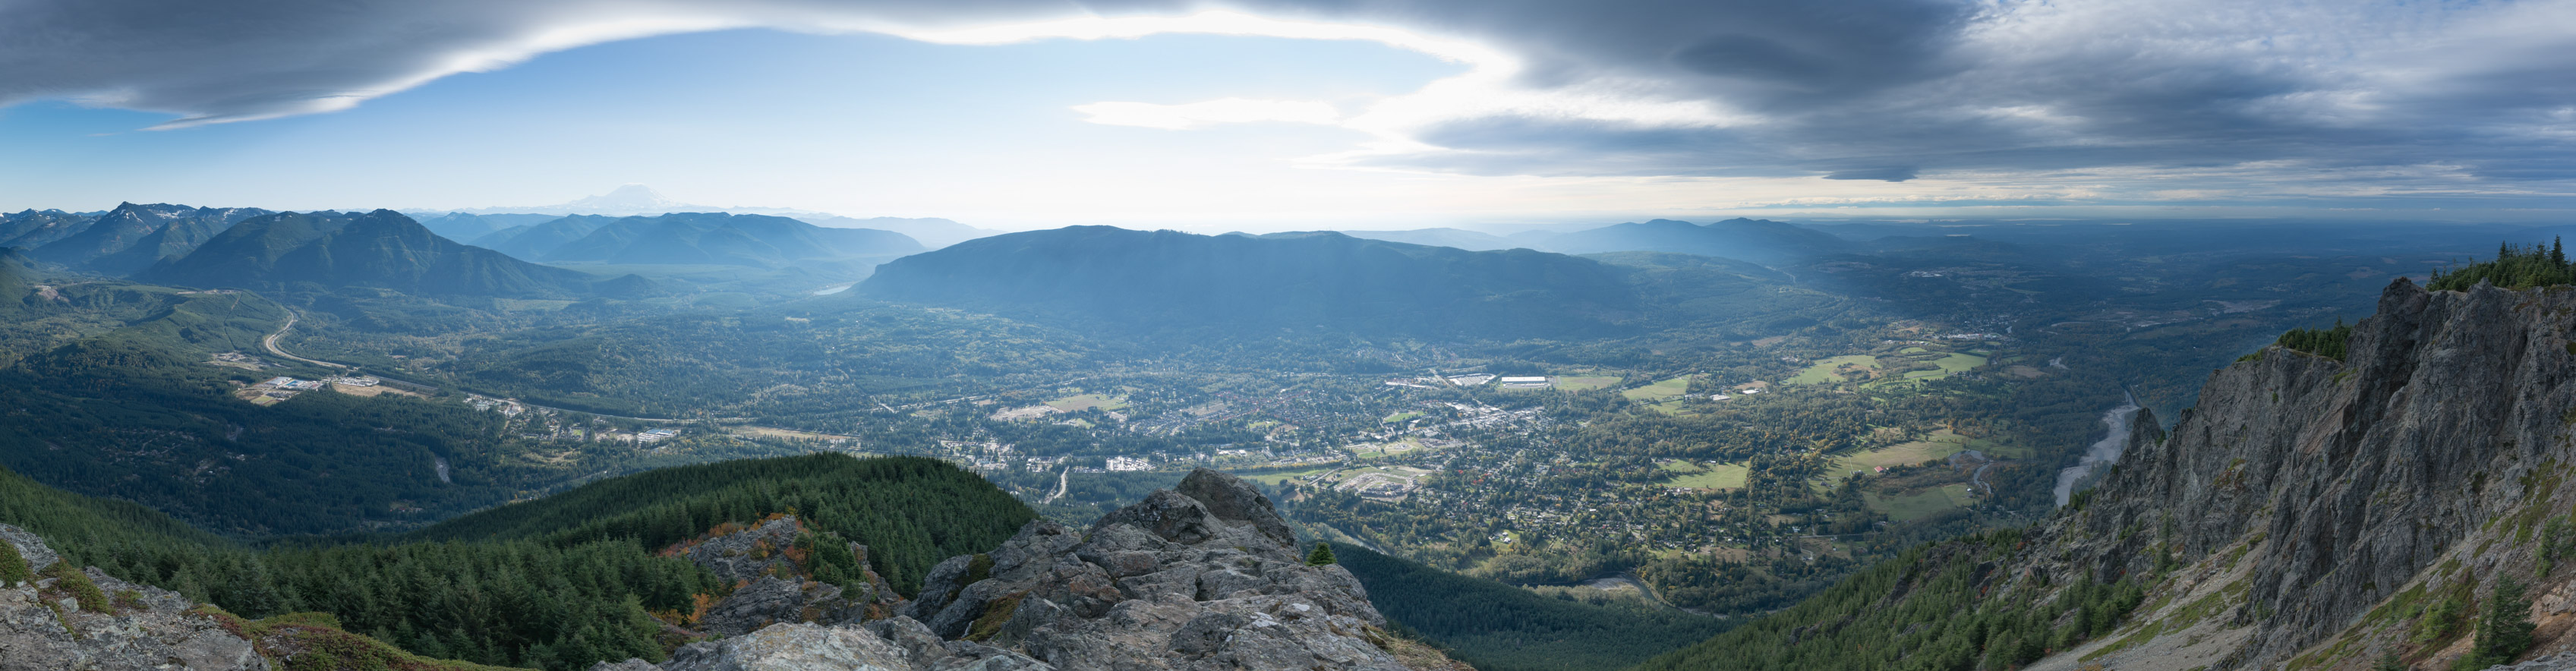
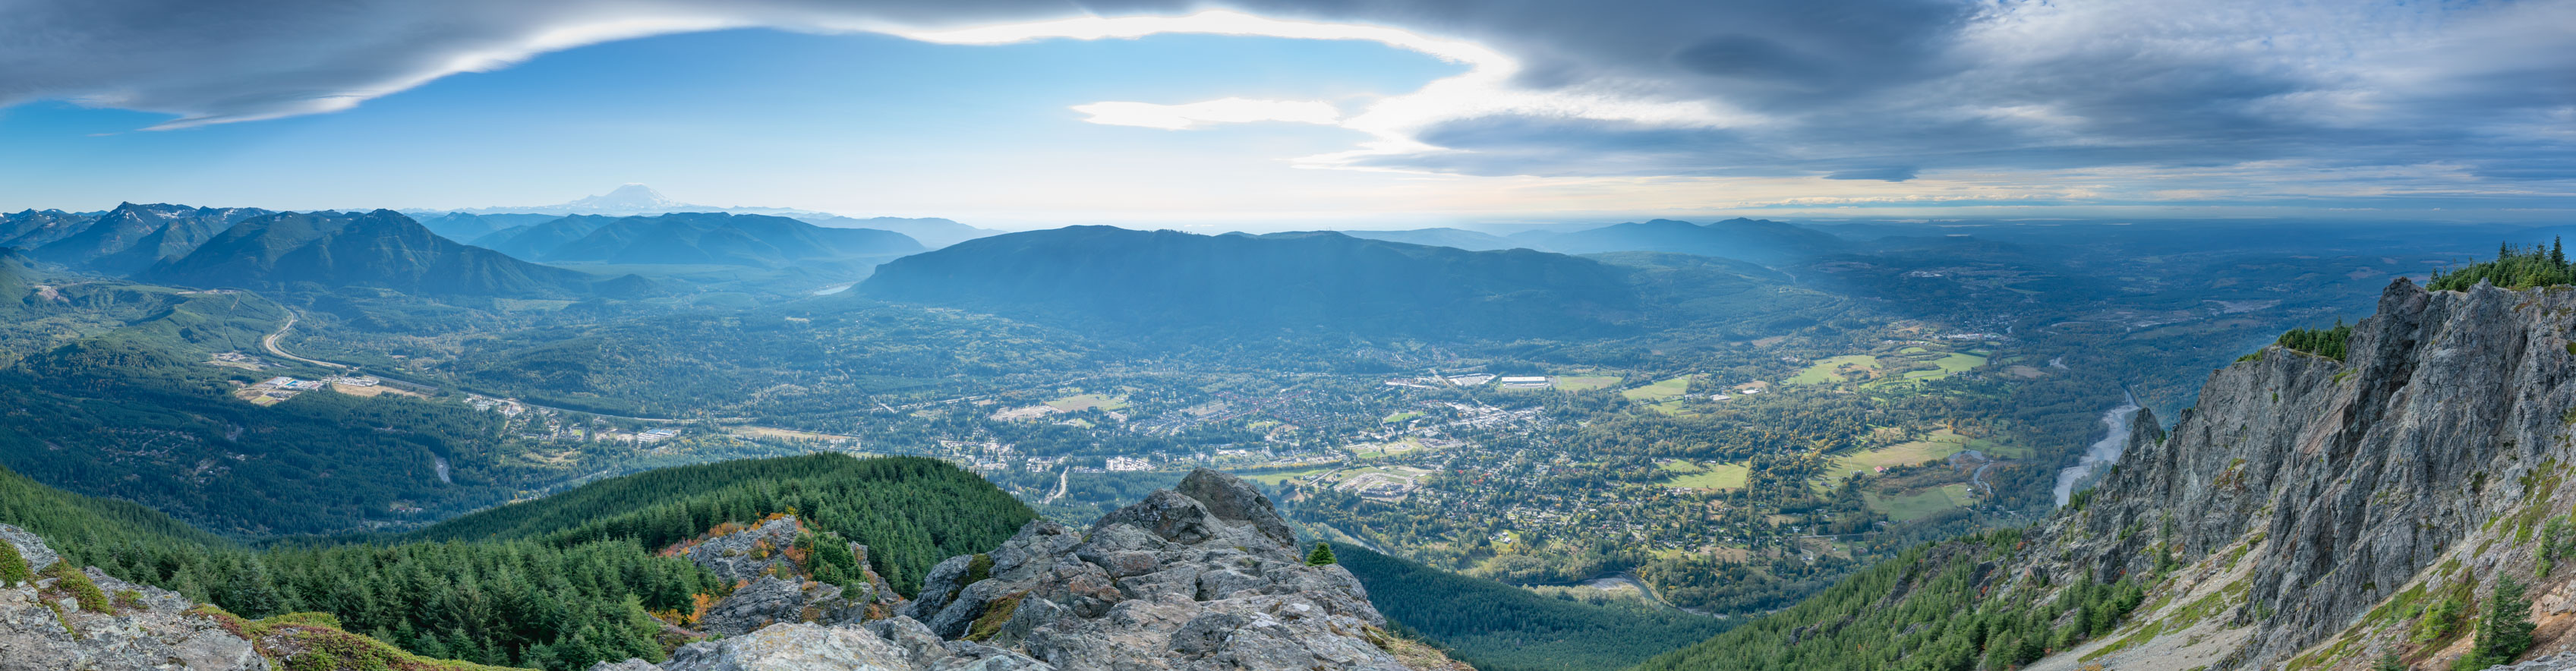
Removed worst photos
Removed 2 photos
Updated Mount Si

diff --git a/index.html b/index.html
@@ -35,7 +35,6 @@
 			<img alt="Copyright Daniel Balthaser" src="assets/Small/pic-12.jpg" data-image="assets/Large/pic-12.jpg" data-description="bruce">
 			<img alt="Copyright Daniel Balthaser" src="assets/Small/pic-10.jpg" data-image="assets/Large/pic-10.jpg" data-description="monument">
 			<img alt="Copyright Daniel Balthaser" src="assets/Small/pic-25.jpg" data-image="assets/Large/pic-25.jpg" data-description="wedge">
-			<img alt="Copyright Daniel Balthaser" src="assets/Small/pic-3.jpg" data-image="assets/Large/pic-3.jpg" data-description="rag">
 			<img alt="Copyright Daniel Balthaser" src="assets/Small/pic-19.jpg" data-image="assets/Large/pic-19.jpg" data-description="pin">
 			<img alt="Copyright Daniel Balthaser" src="assets/Small/pic-38.jpg" data-image="assets/Large/pic-38.jpg" data-description="lake">
 			<img alt="Copyright Daniel Balthaser" src="assets/Small/pic-5.jpg" data-image="assets/Large/pic-5.jpg" data-description="boy">
@@ -56,9 +55,8 @@
 			<img alt="Copyright Daniel Balthaser" src="assets/Small/pic-39.jpg" data-image="assets/Large/pic-39.jpg" data-description="trail">
 			<img alt="Copyright Daniel Balthaser" src="assets/Small/pic-1.jpg" data-image="assets/Large/pic-1.jpg" data-description="bike">
 			<img alt="Copyright Daniel Balthaser" src="assets/Small/pic-40.jpg" data-image="assets/Large/pic-40.jpg" data-description="jagged">
-			<img alt="Copyright Daniel Balthaser" src="assets/Small/pic-17.jpg" data-image="assets/Large/pic-17.jpg" data-description="wed">
 		</div>
-		<p id="copyright">Copyright Daniel Balthaser 2017</p>
+		<p id="copyright">Copyright Daniel Balthaser 2019</p>
 		<script type="text/javascript"> 
 			
 			jQuery("#gallery").unitegallery({
